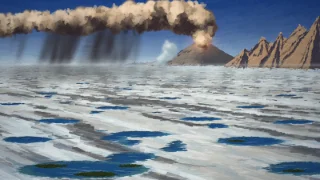
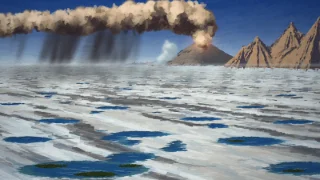
Snowball ridge with uneven summits; softer claims in the new caveats
The ridge's summits no longer rise evenly left to right. The caveats on the
Lomagundi reefs and the Huronian sky now claim only what the sources support.

Changed region(s): [[0.6875, 0.0833, 1.0, 0.3889]]

diff --git a/src/match/turning-points-early-text.ts b/src/match/turning-points-early-text.ts
@@ -57,7 +57,7 @@ export const TEXT: Record<string, EventText> = {
     pictureCaveats: [
       "The crowded lagoon overstates what the evidence proves. The chemical signal may record coastal waters only, not a flourishing of life across the world.",
       "The view above and below the water at once is the painter's device, and so is the mud shown as one clean black layer.",
-      "The reefs are drawn as mounds of branching columns, a common form of stromatolite in rocks of this age. Their shapes are not taken from any outcrop, and the colors of the reefs, the mats and the water are convention.",
+      "The reefs are drawn as mounds of branching columns, one of the forms stromatolites took in the Proterozoic. Their shapes are not taken from any outcrop of this age, and the colors of the reefs, the mats and the water are convention.",
       "The red hills are a general picture of red rock. They are not the setting of the salt beds of Karelia, which date from about the end of this time.",
     ],
     vetted: false,
@@ -87,7 +87,7 @@ export const TEXT: Record<string, EventText> = {
     pictureCaveats: [
       "Fire and ice share one view. The floods of lava erupted at about the same time in what is now South Africa, and nothing shows that they met a front of ice like this one.",
       "The wall of ice running to the horizon suggests a wholly white planet. That is inferred for one of these ice ages only.",
-      "The clear, deep blue sky is the painter's choice. Cold air holds little water vapor, and so less of the moist haze that pales the sky today, but the rocks record nothing of the weather.",
+      "The clear, deep blue sky is the painter's choice. Cold air holds less water vapor, which may have meant less of the moist haze that pales a sky, but nothing in the rocks records the weather.",
       "The shapes of the cliffs and icebergs, and the stone caught as it falls, are borrowed from glaciers of today. The rocks record only the stones lying in layered mud.",
     ],
     vetted: false,

diff --git a/src/scenes/whitelist/marine-early-paleozoic.ts b/src/scenes/whitelist/marine-early-paleozoic.ts
@@ -315,13 +315,13 @@ export const PAINTING_PERMITS: Permit[] = [
     paintingsOnly: true,
     chapters: ['Precambrian'],
     matches: [],
-    basis: 'Mounds built of crowded, branching columns of stromatolite are found in Proterozoic carbonate rocks around the world. Drawn only in the painting of the Lomagundi-Jatuli excursion.',
+    basis: 'Mounds built of crowded, branching columns of stromatolite are known from Proterozoic carbonate rocks. Drawn only in the painting of the Lomagundi-Jatuli excursion.',
   },
 ];
 
 export const PAINTING_CAVEATS: PartCaveat[] = [
   {
     parts: ['stromatolite-reef'],
-    text: 'The reef is drawn as a mound of branching columns, a common form of stromatolite reef in rocks of this age. Its size, the width and spacing of its columns and the way they branch are generalized, not taken from any one outcrop.',
+    text: 'The reef is drawn as a mound of branching columns, one of the forms stromatolites took in the Proterozoic. Its size, the width and spacing of its columns and the way they branch are generalized, not taken from any one outcrop.',
   },
 ];

diff --git a/tools/extinctions/scenes/huronian.ts b/tools/extinctions/scenes/huronian.ts
@@ -277,7 +277,7 @@ export function paint(): string {
       const k = clamp((y - top) / Math.max(8, b.wl - top), 0, 1);
       const xa = clamp(x - 14 * b.k, x0 + 1, x1 - 1);
       const xb = clamp(x + 14 * b.k, x0 + 1, x1 - 1);
-      // The light is the whiter sky low on the right: a slope that falls to the right is lit, one that falls to the left is in shadow.
+      // The light comes from low on the right: a slope that falls to the right is lit, one that falls to the left is in shadow.
       const lit = clamp(0.5 + (((topOf(b.poly, xb) ?? top) - (topOf(b.poly, xa) ?? top)) / Math.max(1, xb - xa)) * 1.3, 0, 1);
       const f = bergFace(x / (38 * b.k) + 7, y / (150 * b.k));
       const facing = clamp(f * 2.6 + 0.1 + 0.5 * lit, 0, 1);

diff --git a/tools/extinctions/scenes/snowball-earth.ts b/tools/extinctions/scenes/snowball-earth.ts
@@ -339,12 +339,12 @@ export function paint(): string {
   // cool shadow on the others, a skirt of scree along the foot.
   const PEAKS: [number, number, number][] = [
     // [x, height above the foot, half-width]
-    [1226, 88, 120],
-    [1318, 142, 190],
-    [1404, 172, 150],
-    [1500, 214, 230],
-    [1596, 268, 210],
-    [1720, 232, 260],
+    [1220, 96, 120],
+    [1286, 150, 170],
+    [1398, 126, 150],
+    [1458, 222, 230],
+    [1602, 268, 210],
+    [1704, 204, 260],
   ];
   const nearBase = (x: number) => HZ + 12 + 12 * clamp((x - 1130) / 470, 0, 1);
   const tent = ([px, h, w]: [number, number, number], x: number) => h * clamp(1 - Math.abs(x - px) / w, 0, 1) ** 1.25;
